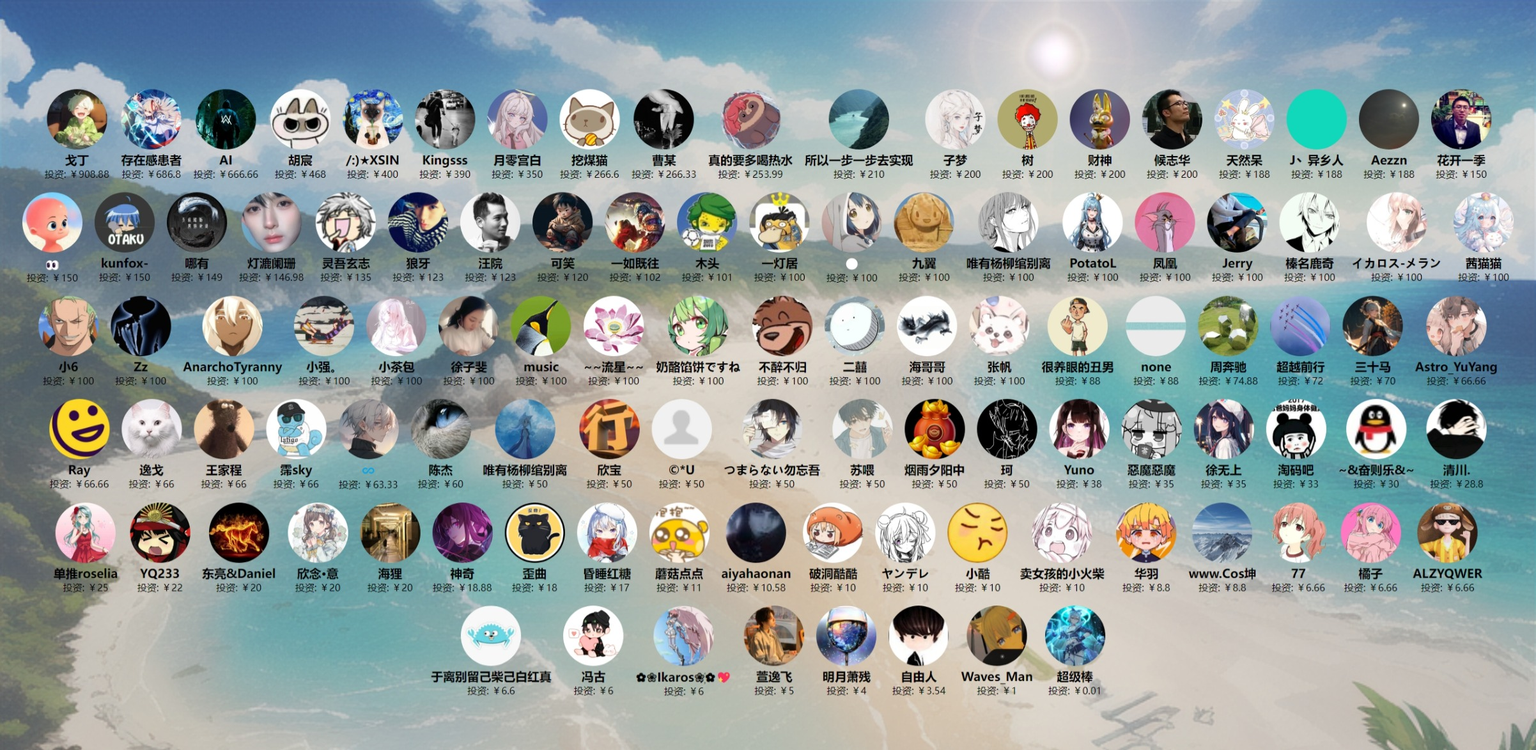
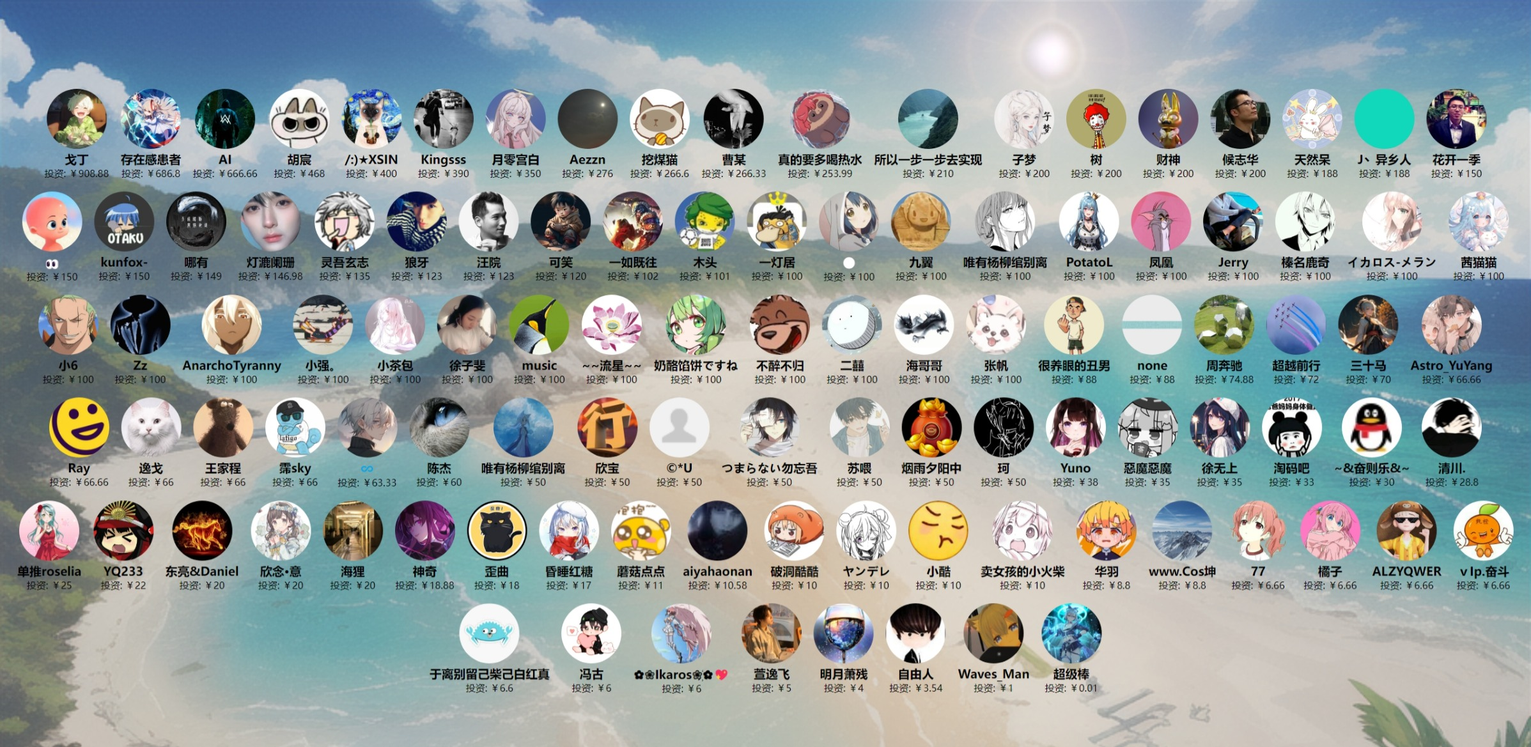
更新投资人

diff --git a/docs/投资人/index.html b/docs/投资人/index.html
@@ -87,6 +87,11 @@
             amount: "￥350"
         },
         {
+            name: "Aezzn",
+            avatar: "https://images.cnblogs.com/cnblogs_com/ikaros-521/2328032/o_240324155533_QQ%E5%9B%BE%E7%89%8720240324235457.jpg",
+            amount: "￥276"
+        },
+        {
             name: "挖煤猫",
             avatar: "https://images.cnblogs.com/cnblogs_com/ikaros-521/2328032/o_230725123351_QQ%E5%9B%BE%E7%89%8720230725203325.jpg",
             amount: "￥266.6"
@@ -134,11 +139,6 @@
         {
             name: "J丶异乡人",
             avatar: "https://images.cnblogs.com/cnblogs_com/ikaros-521/2328032/o_230920161039_111.jpg",
-            amount: "￥188"
-        },
-        {
-            name: "Aezzn",
-            avatar: "https://images.cnblogs.com/cnblogs_com/ikaros-521/2328032/o_240324155533_QQ%E5%9B%BE%E7%89%8720240324235457.jpg",
             amount: "￥188"
         },
         {
@@ -529,6 +529,11 @@
         {
             name: "ALZYQWER",
             avatar: "https://images.cnblogs.com/cnblogs_com/ikaros-521/2328032/o_240409011707_QQ%E5%9B%BE%E7%89%8720240409091340.png",
+            amount: "￥6.66"
+        },
+        {
+            name: "ｖIp.奋斗",
+            avatar: "https://images.cnblogs.com/cnblogs_com/ikaros-521/2328032/o_240413141428_QQ%E5%9B%BE%E7%89%8720240413221313.jpg",
             amount: "￥6.66"
         },
         {
